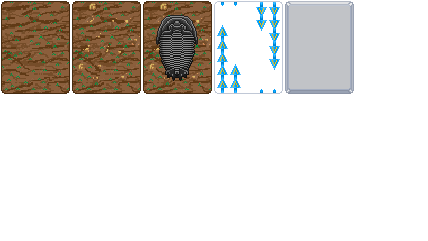
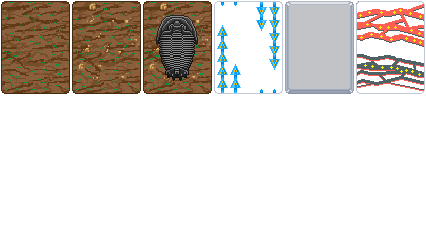
Add New Enhancement + New Rare Food

diff --git a/README.md b/README.md
@@ -22,7 +22,7 @@
 <h2>Elements</h2>
 <ul>
     <li>28+ Jokers</li>
-    <li>21 Foods (+1 CrossMod)</li>
+    <li>23 Foods (+1 CrossMod)</li>
     <li>4 Booster Packs</li>
     <li>3+ Enhancements</li>
     <li>2 Vouchers</li>
